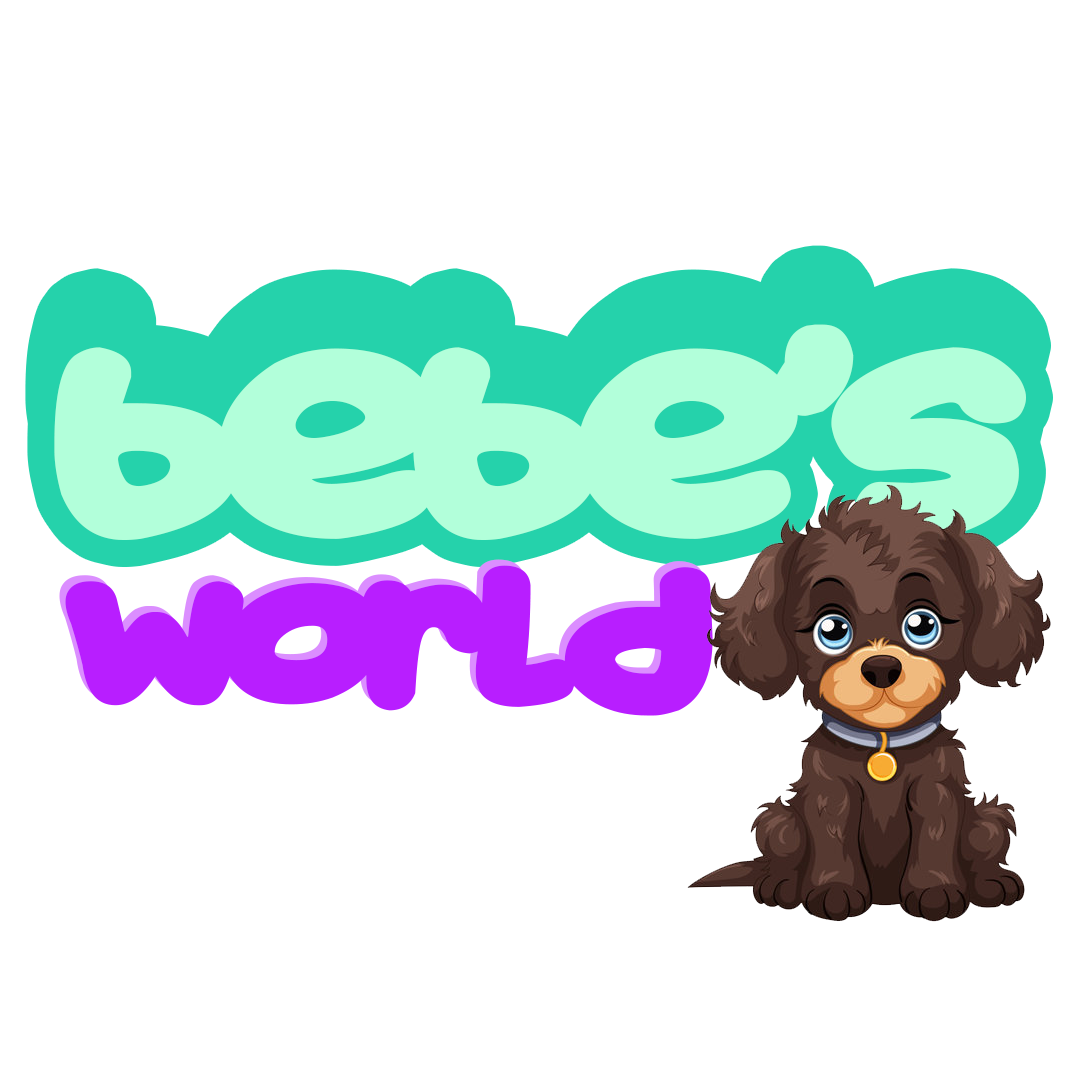
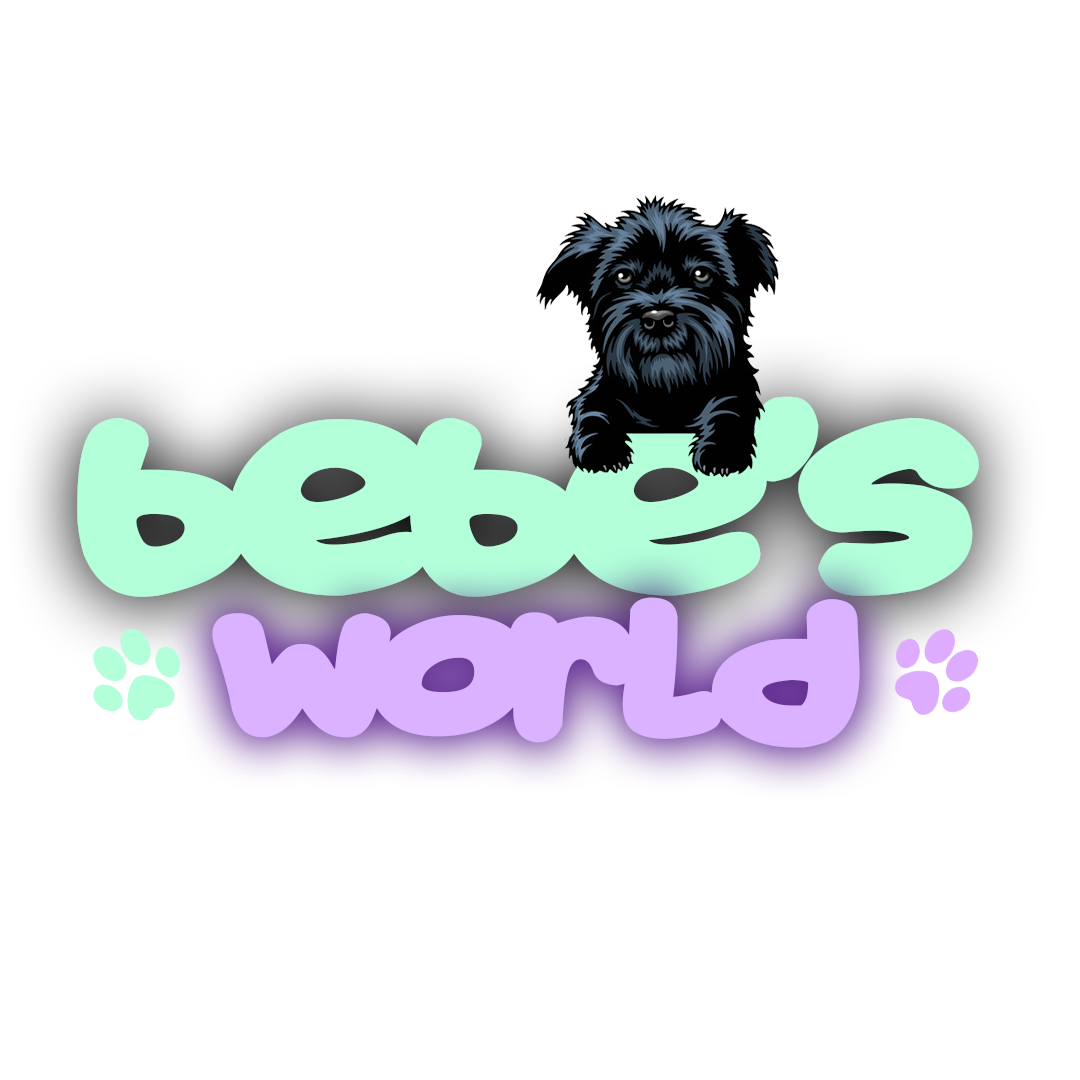
updates working on js page

diff --git a/my-app/src/components/JsQuiz.js b/my-app/src/components/JsQuiz.js
@@ -1,0 +1,30 @@
+import React from "react";
+import bg from "../images/quiz-background.png";
+import dog from "../images/dog.png";
+import treat from "../images/dogtreat.png";
+import bebe from "../images/bebe.png";
+export default function JsQuiz() {
+  return (
+    <div className=" bg-gradient-to-r from-purple-950 to-purple-800 min-h-screen">
+      <div className="text-white text-3xl font-black text-center pt-10">
+        Javascript
+      </div>
+      {/* <div className='flex flex-col-1 lg:col-2 items-center justify-around gap-5 pt-20'> */}
+      <div className="grid grid-cols-1 lg:grid-cols-2 place-content-center px-10 py-10">
+        <div className="lg:w-[500px]">
+          <img src={bebe} alt="bebe" />
+        </div>
+        <div className="bg-white lg:w-[500px] lg:h-[400px] rounded-2xl p-10 shadow-2xl">
+          Uh-oh!! Bebe is hungry , feed her a treat//code to do so this is the
+          code to feed her on click //if correct feed her animation on
+          click//lets explain the drag and drop feature{" "}
+       
+        </div>
+        <img src={treat} alt="dog-treat" />
+        <button className="mt-10 py-5 rounded-3xl mb-20 bg-yellow-400 font-extrabold">
+          Lets Play
+        </button>
+      </div>
+    </div>
+  );
+}

diff --git a/my-app/src/components/HomePage.js b/my-app/src/components/HomePage.js
@@ -1,18 +1,21 @@
 import React from 'react';
 import logo from '../images/newlogo.png';
-import { Link } from 'react-router-dom';
-
+import { Navigate, useNavigate } from 'react-router-dom';
+import bebelogo from '../images/bebesworld.png'
 
 export default function HomePage() {
+
+
+  const navigate = useNavigate();
   return (
     <>
-    <div className=" bg-gradient-to-r from-purple-950 to-purple-800 h-screen">
+    <div className=" bg-gradient-to-r from-purple-950 to-purple-800 h-auto">
       <div className=' flex items-center justify-center'>
-      <img src={logo} alt='logo' className='w-[450px] h-auto pt-20' />
+      <img src={bebelogo} alt='logo' className='w-[700px] h-auto pt-10' />
 
       </div>
       <div className='flex-row text-center relative'>
-      <button className='text-2xl text-white font-black bg-teal-400 px-10 py-2 rounded-3xl animate-bounce animate-infinite'><Link to="options">Enter</Link></button>
+      <button onClick={() => navigate('options')} className='text-md text-black font-bold bg-yellow-400 px-10 py-2 rounded-3xl animate-bounce animate-infinite mb-20'>Enter</button>
       </div>
       </div>
  

diff --git a/my-app/src/components/OptionsPage.js b/my-app/src/components/OptionsPage.js
@@ -1,13 +1,17 @@
 import React from 'react'
+import { useNavigate } from 'react-router-dom'
 
 export default function OptionsPage() {
+
+  const navigate = useNavigate()
+
   return (
     <div className='bg-gradient-to-r from-purple-950 to-purple-800 h-screen'>
       <div class="flex items-center justify-center h-16">
         <div class=" mt-[600px] p-[500]">
         <div className='text-2xl font-bold mb-10 text-yellow-400'>Choose a coding language</div>
          <div className='flex flex-col col-3 gap-5'>
-         <button className='bg-teal-400 rounded-xl py-5 px-20 font-bold hover:bg-yellow-400'>Javascript</button>
+         <button onClick={()=> navigate('js')} className='bg-teal-400 rounded-xl py-5 px-20 font-bold hover:bg-yellow-400'>Javascript</button>
          <button className='bg-teal-400 rounded-xl py-5 px-20 font-bold hover:bg-yellow-400'>HTML</button>
          <button className='bg-teal-400 rounded-xl py-5 px-20 font-bold hover:bg-yellow-400'>CSS</button>
          </div>

diff --git a/my-app/src/App.js b/my-app/src/App.js
@@ -1,6 +1,7 @@
 //pages
 import HomePage from "./components/HomePage";
 import OptionsPage from "./components/OptionsPage";
+import JsQuiz from "./components/JsQuiz";
 
 //layout
 import Layout from "./components/Layout";
@@ -11,6 +12,9 @@ const router = createBrowserRouter(
     <Route path='/' element={<Layout />}>
       <Route index element={<HomePage />} />
       <Route path='options' element={<OptionsPage />} />
+      <Route path='options/js' element={<JsQuiz />} />
+
+
     </Route>
   )
 )
